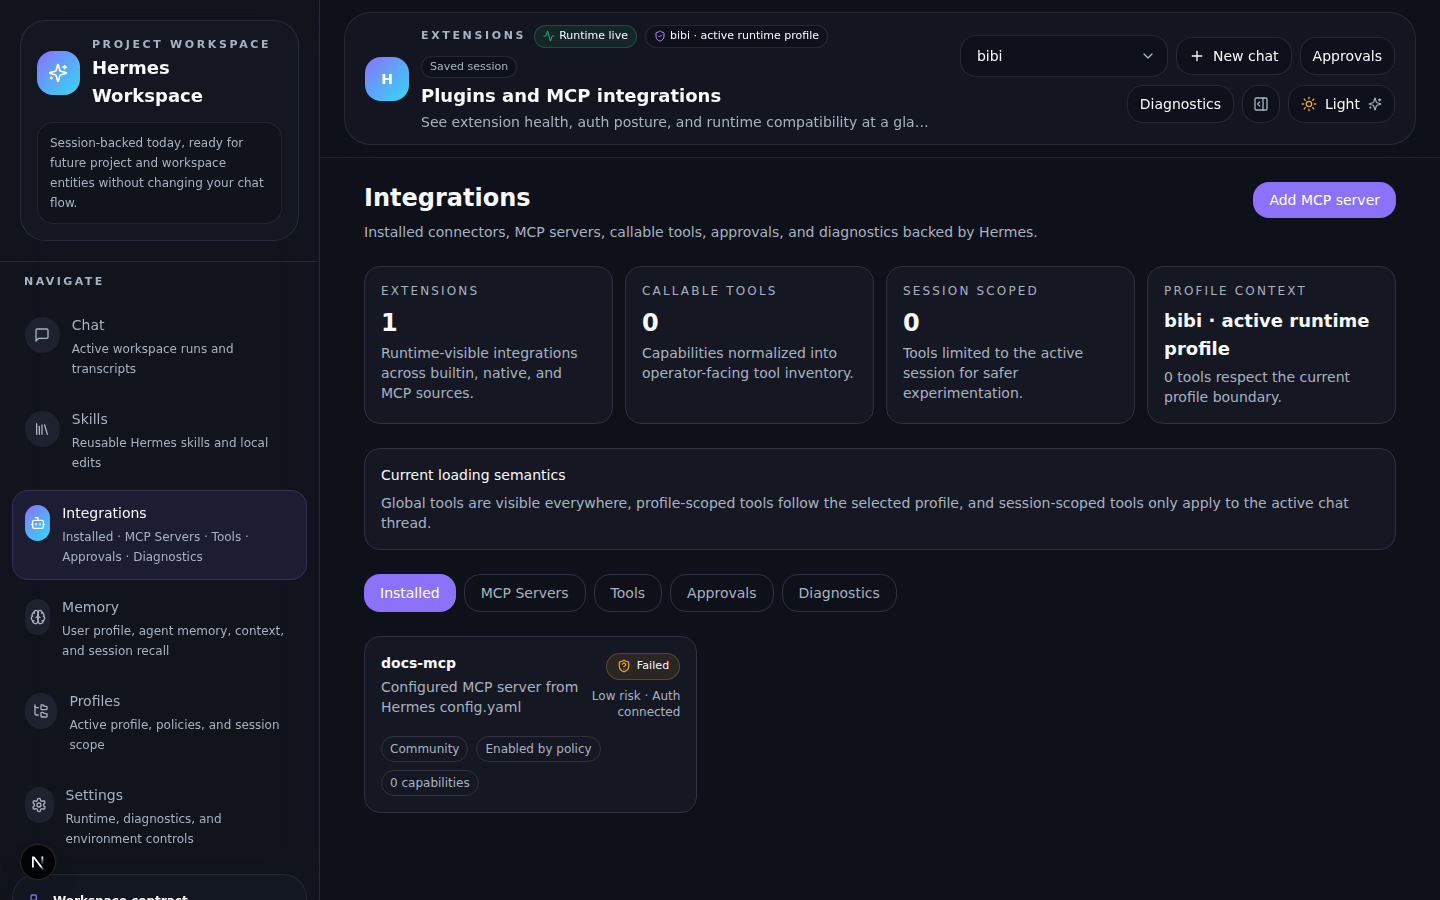
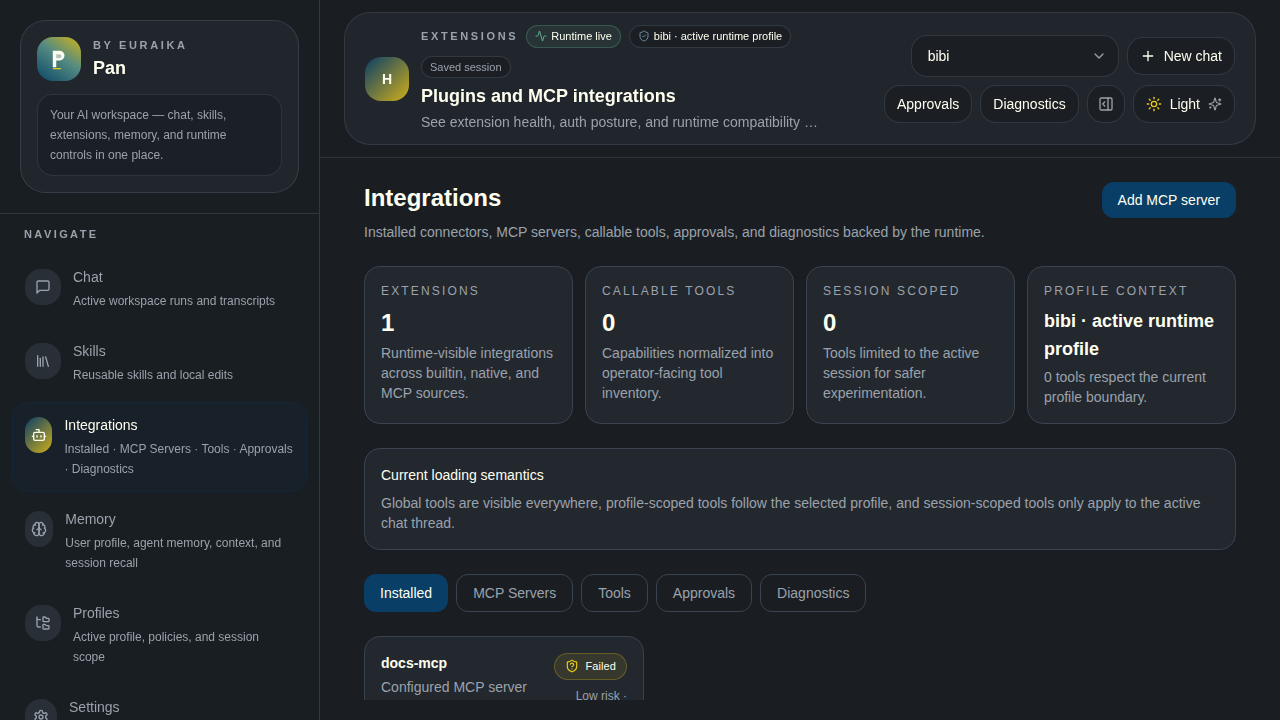
rebrand: code, tests, screenshots → Pan by Euraika
- Purge all 'hermesagentwebui' paths from server code and scripts
- Update all e2e tests: placeholder, headings, mock mode assertions
- Update all unit tests: session names, model references
- Regenerate all 9 screenshots with new Pan branding
- Update package-lock.json name to pan-ui

diff --git a/tests/e2e/smoke.spec.ts b/tests/e2e/smoke.spec.ts
@@ -13,24 +13,24 @@ test('user can sign in, create a chat, send a message, and receive a streamed re
   await page.getByRole('button', { name: 'Continue' }).click();
 
   await expect(page).toHaveURL(/\/chat$/);
-  await expect(page.getByRole('heading', { name: 'Hermes chat workspace' })).toBeVisible();
+  await expect(page.getByRole('heading', { name: 'Pan workspace' })).toBeVisible();
   await expect(page.getByRole('button', { name: 'New chat', exact: true })).toBeVisible();
 
-  await page.getByPlaceholder('Message Hermes…').fill('Help me plan Hermes Workspace');
+  await page.getByPlaceholder('Message Pan…').fill('Help me plan the Pan workspace');
   await page.locator('input[type="file"]').setInputFiles({
     name: 'brief.txt',
     mimeType: 'text/plain',
-    buffer: Buffer.from('Hermes Workspace product brief'),
+    buffer: Buffer.from('Pan workspace product brief'),
   });
   await expect(page.getByText('brief.txt').first()).toBeVisible();
   await page.getByRole('button', { name: 'Voice input' }).click();
-  await expect(page.getByPlaceholder('Message Hermes…')).toHaveValue(/Voice input captured/);
+  await expect(page.getByPlaceholder('Message Pan…')).toHaveValue(/Voice input captured/);
   await page.getByRole('button', { name: 'Send' }).click();
   await page.getByRole('button', { name: 'Approve' }).click();
 
-  await expect(page.locator('p').filter({ hasText: 'Help me plan Hermes Workspace Voice input captured from mock microphone control.' }).last()).toBeVisible();
+  await expect(page.locator('p').filter({ hasText: 'Help me plan the Pan workspace Voice input captured from mock microphone control.' }).last()).toBeVisible();
   await expect(page.getByText('brief.txt').first()).toBeVisible();
-  await expect(page.locator('p:visible').filter({ hasText: /Hermes mock mode is active/ }).first()).toBeVisible();
+  await expect(page.locator('p:visible').filter({ hasText: /Mock mode is active/ }).first()).toBeVisible();
   await expect(page.getByRole('heading', { name: 'web_search' }).first()).toBeVisible();
   await expect(page.getByText(/Approval needed/).first()).toBeVisible();
   await expect(page.getByRole('button', { name: /Artifact · text\/markdown/i }).first()).toBeVisible();
@@ -51,7 +51,7 @@ test('user can search, rename, fork, archive, and update chat settings', async (
   await expect(page).toHaveURL(/\/chat$/);
 
   await page.getByRole('button', { name: 'New chat', exact: true }).click();
-  await page.getByPlaceholder('Message Hermes…').fill('Sprint 3 searchable session');
+  await page.getByPlaceholder('Message Pan…').fill('Sprint 3 searchable session');
   await page.getByRole('button', { name: 'Send' }).click();
   await expect(page.getByText(/Sprint 3 searchable session/).first()).toBeVisible();
 
@@ -69,7 +69,7 @@ test('user can search, rename, fork, archive, and update chat settings', async (
   await expect(page.getByRole('button', { name: /Renamed Sprint 3 session \(fork\)/i }).first()).toBeVisible();
 
   await page.getByRole('button', { name: 'Settings' }).click();
-  await page.getByLabel('Settings model switcher').selectOption('Hermes Fast');
+  await page.getByLabel('Settings model switcher').selectOption('claude-opus-4.6 · copilot');
   await page.getByLabel('Policy preset').selectOption('builder');
   await page.getByRole('button', { name: 'Save settings' }).click();
   await page.getByRole('button', { name: 'Close', exact: true }).click();

diff --git a/tests/unit/session-store.test.ts b/tests/unit/session-store.test.ts
@@ -14,12 +14,12 @@ import {
 describe('session store', () => {
   it('creates sessions and appends messages', () => {
     const session = createSession();
-    addUserMessage(session.id, 'Hello Hermes');
+    addUserMessage(session.id, 'Hello Pan');
     addAssistantMessage(session.id, 'Hi there');
 
     const updated = getSession(session.id);
     expect(updated?.messages).toHaveLength(2);
-    expect(updated?.title).toContain('Hello Hermes');
+    expect(updated?.title).toContain('Hello Pan');
   });
 
   it('lists sessions in descending updated order', () => {
@@ -32,13 +32,13 @@ describe('session store', () => {
     const session = createSession();
     addUserMessage(session.id, 'Sprint three search term');
     renameSession(session.id, 'Renamed session');
-    updateSessionSettings(session.id, { model: 'Hermes Fast', policyPreset: 'builder' });
+    updateSessionSettings(session.id, { model: 'claude-opus-4.6', policyPreset: 'builder' });
     archiveSession(session.id);
 
     const updated = getSession(session.id);
     expect(updated?.title).toBe('Renamed session');
     expect(updated?.archived).toBe(true);
-    expect(updated?.settings.model).toBe('Hermes Fast');
+    expect(updated?.settings.model).toBe('claude-opus-4.6');
     expect(updated?.settings.policyPreset).toBe('builder');
 
     const forked = forkSession(session.id);

diff --git a/tests/e2e/memory-profiles.spec.ts b/tests/e2e/memory-profiles.spec.ts
@@ -8,10 +8,10 @@ test('user can edit memory, inspect context, and view audit log', async ({ page 
   await expect(page).toHaveURL(/\/chat$/);
 
   await page.getByRole('button', { name: 'New chat', exact: true }).click();
-  await page.getByPlaceholder('Message Hermes…').fill('Context session for memory and profiles');
+  await page.getByPlaceholder('Message Pan…').fill('Context session for memory and profiles');
   await page.getByRole('button', { name: 'Send' }).click();
   await page.getByRole('button', { name: 'Approve' }).click();
-  await expect(page.getByText(/Hermes mock mode is active/).first()).toBeVisible();
+  await expect(page.getByText(/Mock mode is active/).first()).toBeVisible();
 
   await page.getByRole('link', { name: 'Memory' }).click();
   await expect(page).toHaveURL(/\/memory$/);

diff --git a/tests/e2e/mobile.spec.ts b/tests/e2e/mobile.spec.ts
@@ -8,10 +8,10 @@ test('chat remains usable on a mobile viewport', async ({ page }) => {
   await page.getByRole('button', { name: 'Continue' }).click();
   await expect(page).toHaveURL(/\/chat$/);
 
-  await page.getByPlaceholder('Message Hermes…').fill('Mobile chat check');
+  await page.getByPlaceholder('Message Pan…').fill('Mobile chat check');
   await page.getByRole('button', { name: 'Send' }).click();
   await page.getByRole('button', { name: 'Approve' }).click();
-  await expect(page.getByText(/Hermes mock mode is active/).first()).toBeVisible();
+  await expect(page.getByText(/Mock mode is active/).first()).toBeVisible();
 
   await page.getByRole('button', { name: 'Open navigation' }).click();
   await expect(page.getByRole('link', { name: 'Skills' })).toBeVisible();

diff --git a/tests/unit/memory-profile.test.ts b/tests/unit/memory-profile.test.ts
@@ -12,13 +12,13 @@ describe('memory and profile stores', () => {
 
   it('supports session search and context inspector', () => {
     const session = createSession();
-    updateSessionSettings(session.id, { model: 'Hermes Fast', policyPreset: 'builder' });
+    updateSessionSettings(session.id, { model: 'claude-opus-4.6', policyPreset: 'builder' });
     const results = sessionSearch('new chat');
     expect(Array.isArray(results)).toBe(true);
 
     const context = getContextInspector('profile-1', session.id);
     expect(context.activeSessionId).toBe(session.id);
-    expect(context.model).toBe('Hermes Fast');
+    expect(context.model).toBe('claude-opus-4.6');
   });
 
   it('creates, activates, and updates profile policy', () => {

diff --git a/tests/e2e/skills.spec.ts b/tests/e2e/skills.spec.ts
@@ -8,7 +8,7 @@ test('user can inspect a skill, edit a local skill, and load it into the current
   await expect(page).toHaveURL(/\/chat$/);
 
   await page.getByRole('button', { name: 'New chat', exact: true }).click();
-  await page.getByPlaceholder('Message Hermes…').fill('Create an active session for skills');
+  await page.getByPlaceholder('Message Pan…').fill('Create an active session for skills');
   await page.getByRole('button', { name: 'Send' }).click();
   const approveButton = page.getByRole('button', { name: 'Approve' });
   if (await approveButton.isVisible({ timeout: 3000 }).catch(() => false)) {

diff --git a/src/server/core/db-bootstrap.ts b/src/server/core/db-bootstrap.ts
@@ -2,7 +2,7 @@ import fs from 'node:fs';
 import path from 'node:path';
 import { execPython } from '@/server/core/python-exec';
 
-const DATA_DIR = '/opt/projects/hermesagentwebui/.data';
+const DATA_DIR = '/opt/projects/pan-ui/.data';
 
 type MigrationTarget = 'runtime' | 'audit';
 

diff --git a/src/server/uploads/upload-store.ts b/src/server/uploads/upload-store.ts
@@ -11,7 +11,7 @@ export type UploadedAttachment = {
   contentPath: string;
 };
 
-const UPLOAD_DIR = '/opt/projects/hermesagentwebui/.data/uploads';
+const UPLOAD_DIR = '/opt/projects/pan-ui/.data/uploads';
 
 function ensureDir() {
   fs.mkdirSync(UPLOAD_DIR, { recursive: true });

diff --git a/tests/unit/upload-store.test.ts b/tests/unit/upload-store.test.ts
@@ -7,7 +7,7 @@ describe('upload store', () => {
       name: 'brief.txt',
       size: 128,
       type: 'text/plain',
-      content: 'Hermes Workspace brief',
+      content: 'Pan workspace brief',
     });
 
     expect(getUpload(upload.id)?.name).toBe('brief.txt');
